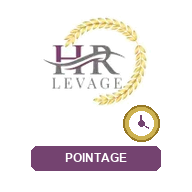
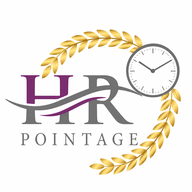
Remplace les icones de pointage

diff --git a/service-worker.js b/service-worker.js
@@ -1,4 +1,4 @@
-const CACHE_NAME = 'pointage-hr-v14';
+const CACHE_NAME = 'pointage-hr-v15';
 const FILES = [
   './index.html',
   './manifest.json',
